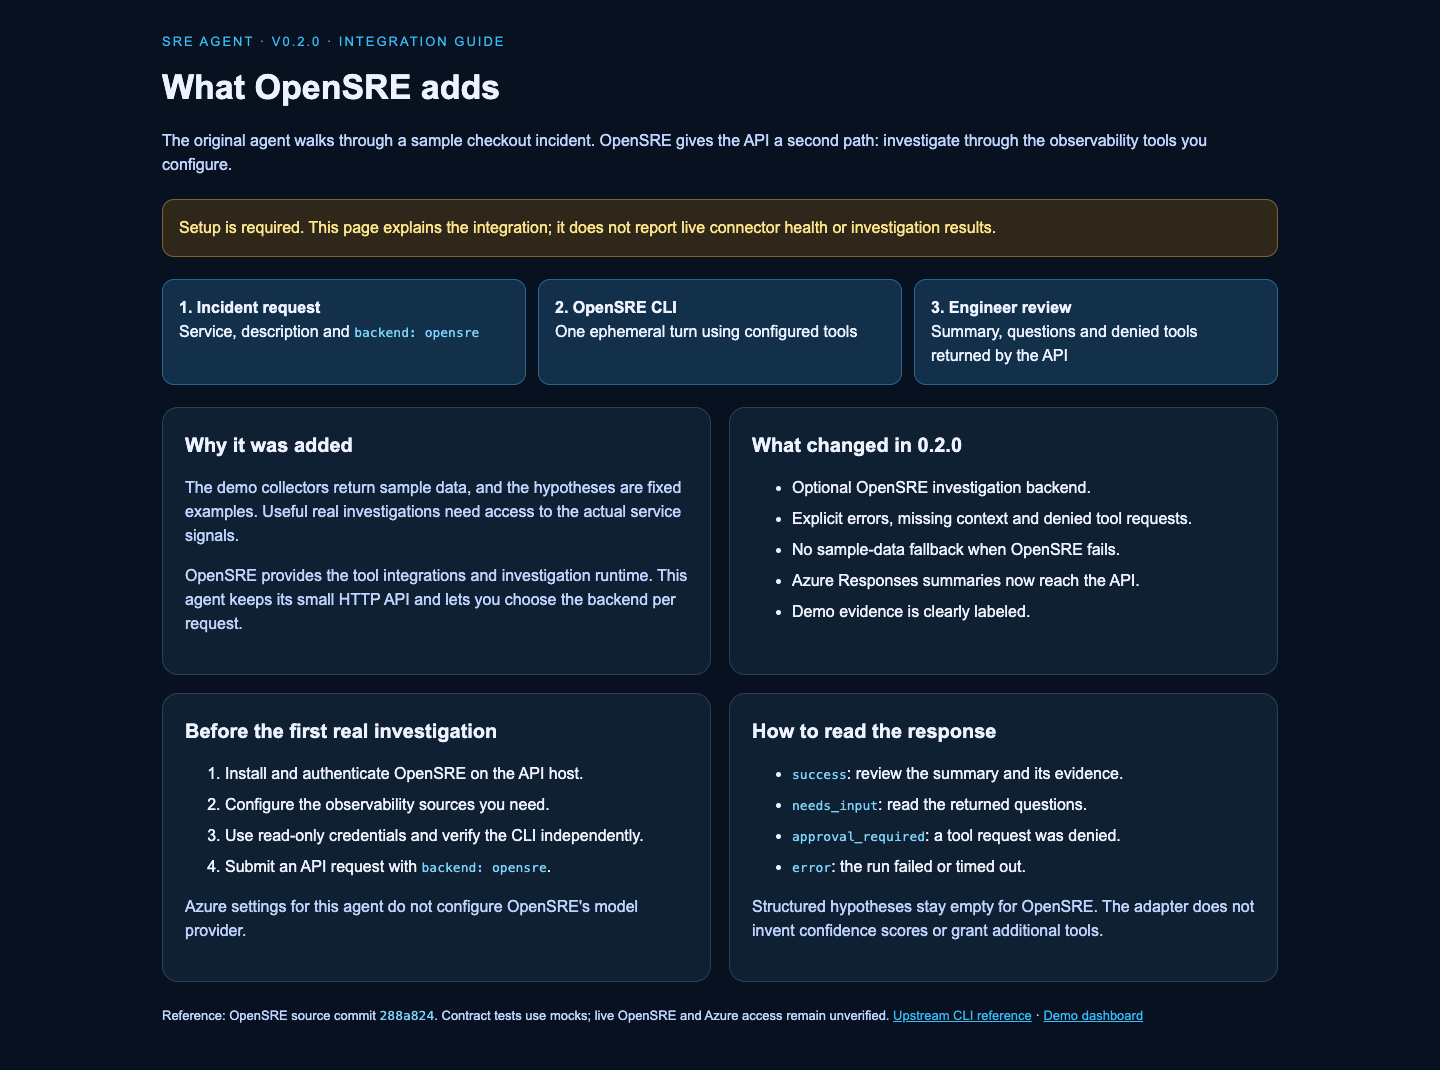
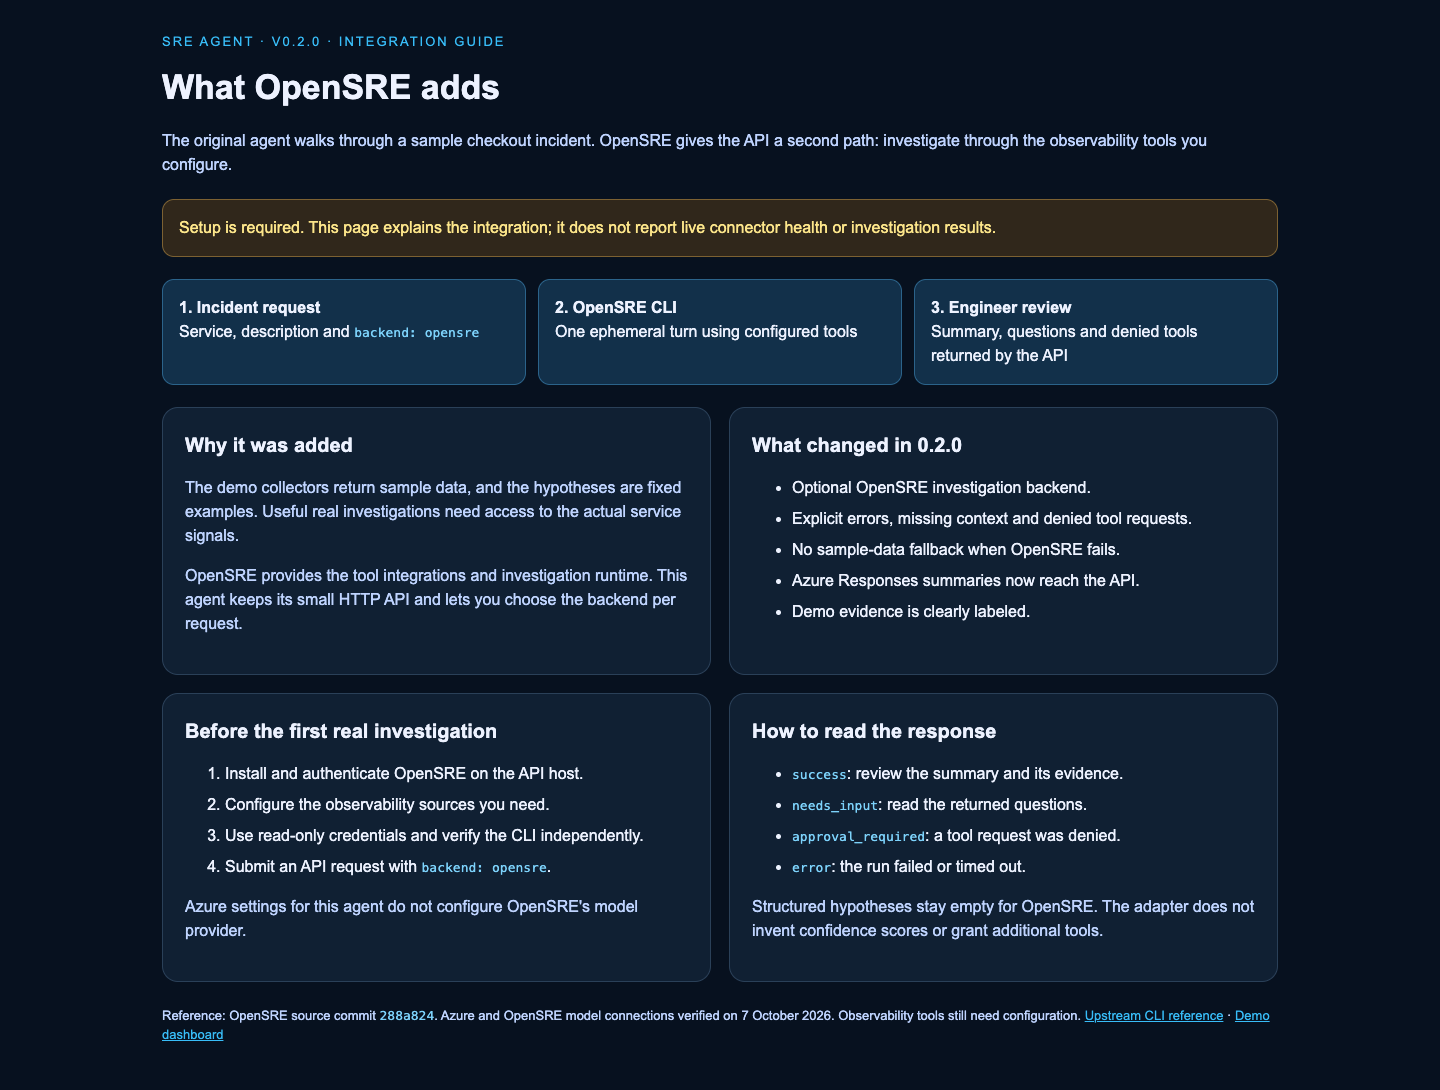
Verify live Azure and OpenSRE connections and separate provider settings

diff --git a/app/agent/opensre.py b/app/agent/opensre.py
@@ -17,6 +17,10 @@ class OpenSREBackend:
             + json.dumps({"service": service, "description": description})
         )
         env = dict(os.environ, OPENSRE_NO_TELEMETRY="1", OPENSRE_PROMPT_LOG_DISABLED="1")
+        # The application and OpenSRE use different provider identifiers.
+        # Keep their settings separate when both run on the same host.
+        if os.getenv("OPENSRE_LLM_PROVIDER"):
+            env["LLM_PROVIDER"] = os.environ["OPENSRE_LLM_PROVIDER"]
         try:
             # stdin prevents incident text being interpreted as flags or exposed in argv.
             result = subprocess.run(
@@ -32,7 +36,7 @@ class OpenSREBackend:
             if status == "success" and data.get("status") != "success":
                 raise ValueError("Inconsistent OpenSRE output")
             return InvestigationResponse(
-                service=service, backend="opensre", evidence_mode="opensre", status=status,
+                service=service, backend="opensre", evidence_mode="opensre", llm_mode="opensre", status=status,
                 summary=data.get("response") or "OpenSRE did not produce an investigation.",
                 hypotheses=[], safe_to_continue=status == "success",
                 questions=data.get("questions") or [], denied_tools=data.get("denied_tools") or [],
@@ -40,7 +44,7 @@ class OpenSREBackend:
             )
         except (OSError, subprocess.TimeoutExpired, ValueError, TypeError):
             return InvestigationResponse(
-                service=service, backend="opensre", evidence_mode="opensre", status="error",
+                service=service, backend="opensre", evidence_mode="opensre", llm_mode="opensre", status="error",
                 summary="OpenSRE unavailable, timed out, or returned invalid output. Check installation, authentication and integrations.",
                 hypotheses=[], safe_to_continue=False,
                 warnings=["No synthetic evidence was substituted. Raw provider errors are withheld to avoid exposing secrets."],

diff --git a/examples/dashboard_app.py b/examples/dashboard_app.py
@@ -160,7 +160,7 @@ code {{color:#7dd3fc;overflow-wrap:anywhere;}} li {{margin:7px 0;}} .footer {{fo
 <section class="card"><h2>Before the first real investigation</h2><ol><li>Install and authenticate OpenSRE on the API host.</li><li>Configure the observability sources you need.</li><li>Use read-only credentials and verify the CLI independently.</li><li>Submit an API request with <code>backend: opensre</code>.</li></ol><p>Azure settings for this agent do not configure OpenSRE's model provider.</p></section>
 <section class="card"><h2>How to read the response</h2><ul><li><code>success</code>: review the summary and its evidence.</li><li><code>needs_input</code>: read the returned questions.</li><li><code>approval_required</code>: a tool request was denied.</li><li><code>error</code>: the run failed or timed out.</li></ul><p>Structured hypotheses stay empty for OpenSRE. The adapter does not invent confidence scores or grant additional tools.</p></section>
 </div>
-<p class="footer">Reference: OpenSRE source commit <code>288a824</code>. Contract tests use mocks; live OpenSRE and Azure access remain unverified.
+<p class="footer">Reference: OpenSRE source commit <code>288a824</code>. Azure and OpenSRE model connections verified on 7 October 2026. Observability tools still need configuration.
 <a href="https://github.com/Tracer-Cloud/opensre/blob/288a82456af27ce75487527b2b21c7ab1cbf5d6b/docs/guides/headless-cli.mdx">Upstream CLI reference</a> · <a href="/">Demo dashboard</a></p>
 </main></body></html>'''
 

diff --git a/tests/test_opensre.py b/tests/test_opensre.py
@@ -11,9 +11,11 @@ from app.main import app
 
 @pytest.mark.parametrize('code,status,wire_status', [(0,'success','success'), (3,'approval_required','approval_denied'), (4,'needs_input','needs_input'), (1,'error','error')])
 def test_cli_result_and_no_tool_authorization(monkeypatch, code, status, wire_status):
+    monkeypatch.setenv("OPENSRE_LLM_PROVIDER", "azure-openai")
     def run(argv, **kwargs):
         assert argv[1:] == ['--json', 'ask', '--ephemeral', '-']
         assert 'checkout' in kwargs['input']
+        assert kwargs['env']['LLM_PROVIDER'] == 'azure-openai'
         assert kwargs['env']['OPENSRE_PROMPT_LOG_DISABLED'] == '1'
         return SimpleNamespace(returncode=code, stdout=json.dumps({'status':wire_status,'response':'Observed latency','questions':[],'denied_tools':[]}))
     monkeypatch.setattr(subprocess, 'run', run)

diff --git a/docs/LIVE_VERIFICATION.md b/docs/LIVE_VERIFICATION.md
@@ -1,0 +1,29 @@
+# Live verification — 7 October 2026
+
+Verified locally against Azure deployment `gpt-5.4` and OpenSRE binary `v2026.10.6`.
+No OpenSRE hosted account was used. No production observability tools were queried.
+
+| Check | Result |
+| --- | --- |
+| Azure Responses target with API version `2025-04-01-preview` | HTTP 200, completed response with output text |
+| OpenSRE headless CLI using Azure OpenAI | Exit 0, status `success`, response `OK` |
+| Agent API, demo backend with Azure reasoning | HTTP 200, status `success`, `llm_mode=azure`, summary returned |
+| Agent API, OpenSRE backend | HTTP 200, status `success`, investigation narrative returned |
+
+The OpenSRE API check reported that no diagnostic tools were configured. Model
+connectivity and the adapter work; a real incident investigation still needs
+configured observability sources and a separate end-to-end check.
+
+## Local configuration
+
+The application uses `LLM_PROVIDER=azure`; OpenSRE uses `azure-openai`.
+Set `OPENSRE_LLM_PROVIDER=azure-openai` so the adapter overrides only the child
+process's provider. Set `OPENSRE_LLM_TRANSPORT=litellm`, the Azure resource URL
+in `AZURE_OPENAI_BASE_URL`, API version in `AZURE_OPENAI_API_VERSION`, and
+deployment name in each `AZURE_OPENAI_*_MODEL` setting. See `.env.example`.
+Both paths can use the locally saved `AZURE_OPENAI_API_KEY`. The ignored `.env`
+contains the configured values; no credential is committed.
+
+OpenSRE sign-in is optional for this headless provider configuration. The
+installed binary, model credentials and observability setup remain local;
+cloning the repository does not reproduce those credentials or installations.

diff --git a/docs/OPENSRE_INTEGRATION.md b/docs/OPENSRE_INTEGRATION.md
@@ -78,7 +78,7 @@ directly when you need a resumable session or operator tool approval.
 
 - **This agent:** code version 0.2.0, unpublished. See [CHANGELOG.md](../CHANGELOG.md).
 - **OpenSRE reference:** source commit `288a82456af27ce75487527b2b21c7ab1cbf5d6b`, whose README identifies the project as v0.1/public alpha. The adapter does not bundle or pin an installed OpenSRE binary.
-- **Azure example:** deployment name `gpt-5.4`, supplied Responses target API version `2025-04-01-preview`. Neither the deployment nor that endpoint has been checked with live authentication.
+- **Azure example:** deployment name `gpt-5.4`, supplied Responses target API version `2025-04-01-preview`. Both passed a live authenticated connectivity check; see [live verification](LIVE_VERIFICATION.md).
 
 Primary OpenSRE references, pinned to the reviewed source:
 
@@ -94,8 +94,8 @@ would require a larger source dependency and tighter coupling to upstream.
 ## Verification and remaining work
 
 Tests cover the subprocess contract and failure paths with mocks. Screenshots
-show the rendered demo and integration guide. No live OpenSRE tools, Azure
-requests or production investigations were executed.
+show the rendered demo and integration guide. Azure and OpenSRE model connectivity subsequently passed live checks; see
+[live verification](LIVE_VERIFICATION.md). Production tool access remains unverified.
 
 For a production service, add authentication, rate limits, bounded process
 concurrency, audited credentials and real-incident evaluation. The current

diff --git a/docs/ASSESSMENT.md b/docs/ASSESSMENT.md
@@ -28,7 +28,7 @@ OpenSRE narrative is exposed as `summary`; structured hypotheses remain empty be
 - Demo evidence is labeled; existing illustrative hypotheses retained for dashboard compatibility.
 - Azure uses the exact Responses target URI with `api-key`, deployment name, bounded output and no temperature parameter; actual LLM narrative now reaches the API.
 - Secret env files and Python/test artifacts are ignored.
-- Contract tests use mocked subprocess and HTTP calls. No live provider or production tool execution was performed.
+- Contract tests use mocked subprocess and HTTP calls. Model connectivity was subsequently verified; see [live verification](LIVE_VERIFICATION.md). Production tool access remains unverified.
 
 For production, add authentication/rate limits, job queue and concurrency limits, bounded transcript handling, deployment isolation, audited connector permissions, evidence provenance, and evaluation on real incidents. Current synchronous calls may occupy a worker for up to the configured timeout. The optional LLM still analyzes mock evidence on the demo backend; it does not turn that backend into real telemetry. OpenSRE requires its own model authentication; this application's Azure settings are not automatically forwarded into OpenSRE configuration.
 

diff --git a/README.md b/README.md
@@ -146,8 +146,8 @@ uvicorn app.main:app --env-file .env
 
 The full Azure Responses target URI is used as provided. `gpt-5.4` must match
 the deployment name. Calls use `api-key` authentication, omit temperature and
-cap output at 2,000 tokens. The endpoint and deployment have not been verified
-with a live authenticated request.
+cap output at 2,000 tokens. The endpoint and deployment passed a live authenticated check on 7 October 2026;
+see the [verification report](docs/LIVE_VERIFICATION.md).
 
 For OpenAI, install `pip install -e '.[llm]'` and set `LLM_PROVIDER=openai`,
 `LLM_MODEL` and `OPENAI_API_KEY`. Azure uses the existing `httpx` dependency.
@@ -206,3 +206,9 @@ docker compose -f docker/docker-compose.yml up --build
 
 To use the OpenSRE backend in Docker, install and configure OpenSRE inside the
 runtime image. The current image does not include it.
+
+## Live verification
+
+Azure and OpenSRE model connections passed live checks on 7 October 2026.
+No OpenSRE account was required. Observability tools still need configuration.
+See the [results and local provider settings](docs/LIVE_VERIFICATION.md).

diff --git a/CHANGELOG.md b/CHANGELOG.md
@@ -41,3 +41,9 @@ is inferred from that declaration.
 - Fixed demo hypotheses, example dashboard and optional model wrapper.
 
 Baseline reviewed: `be3bbb626f58b85ee38bf58940f8503e62dd32b4`.
+
+### Live connectivity check — 7 October 2026
+
+- Verified Azure Responses and OpenSRE headless Azure calls, plus both agent API paths.
+- Added `OPENSRE_LLM_PROVIDER` to separate child-process provider configuration.
+- Production observability access remains unverified; no diagnostic tools were configured.
